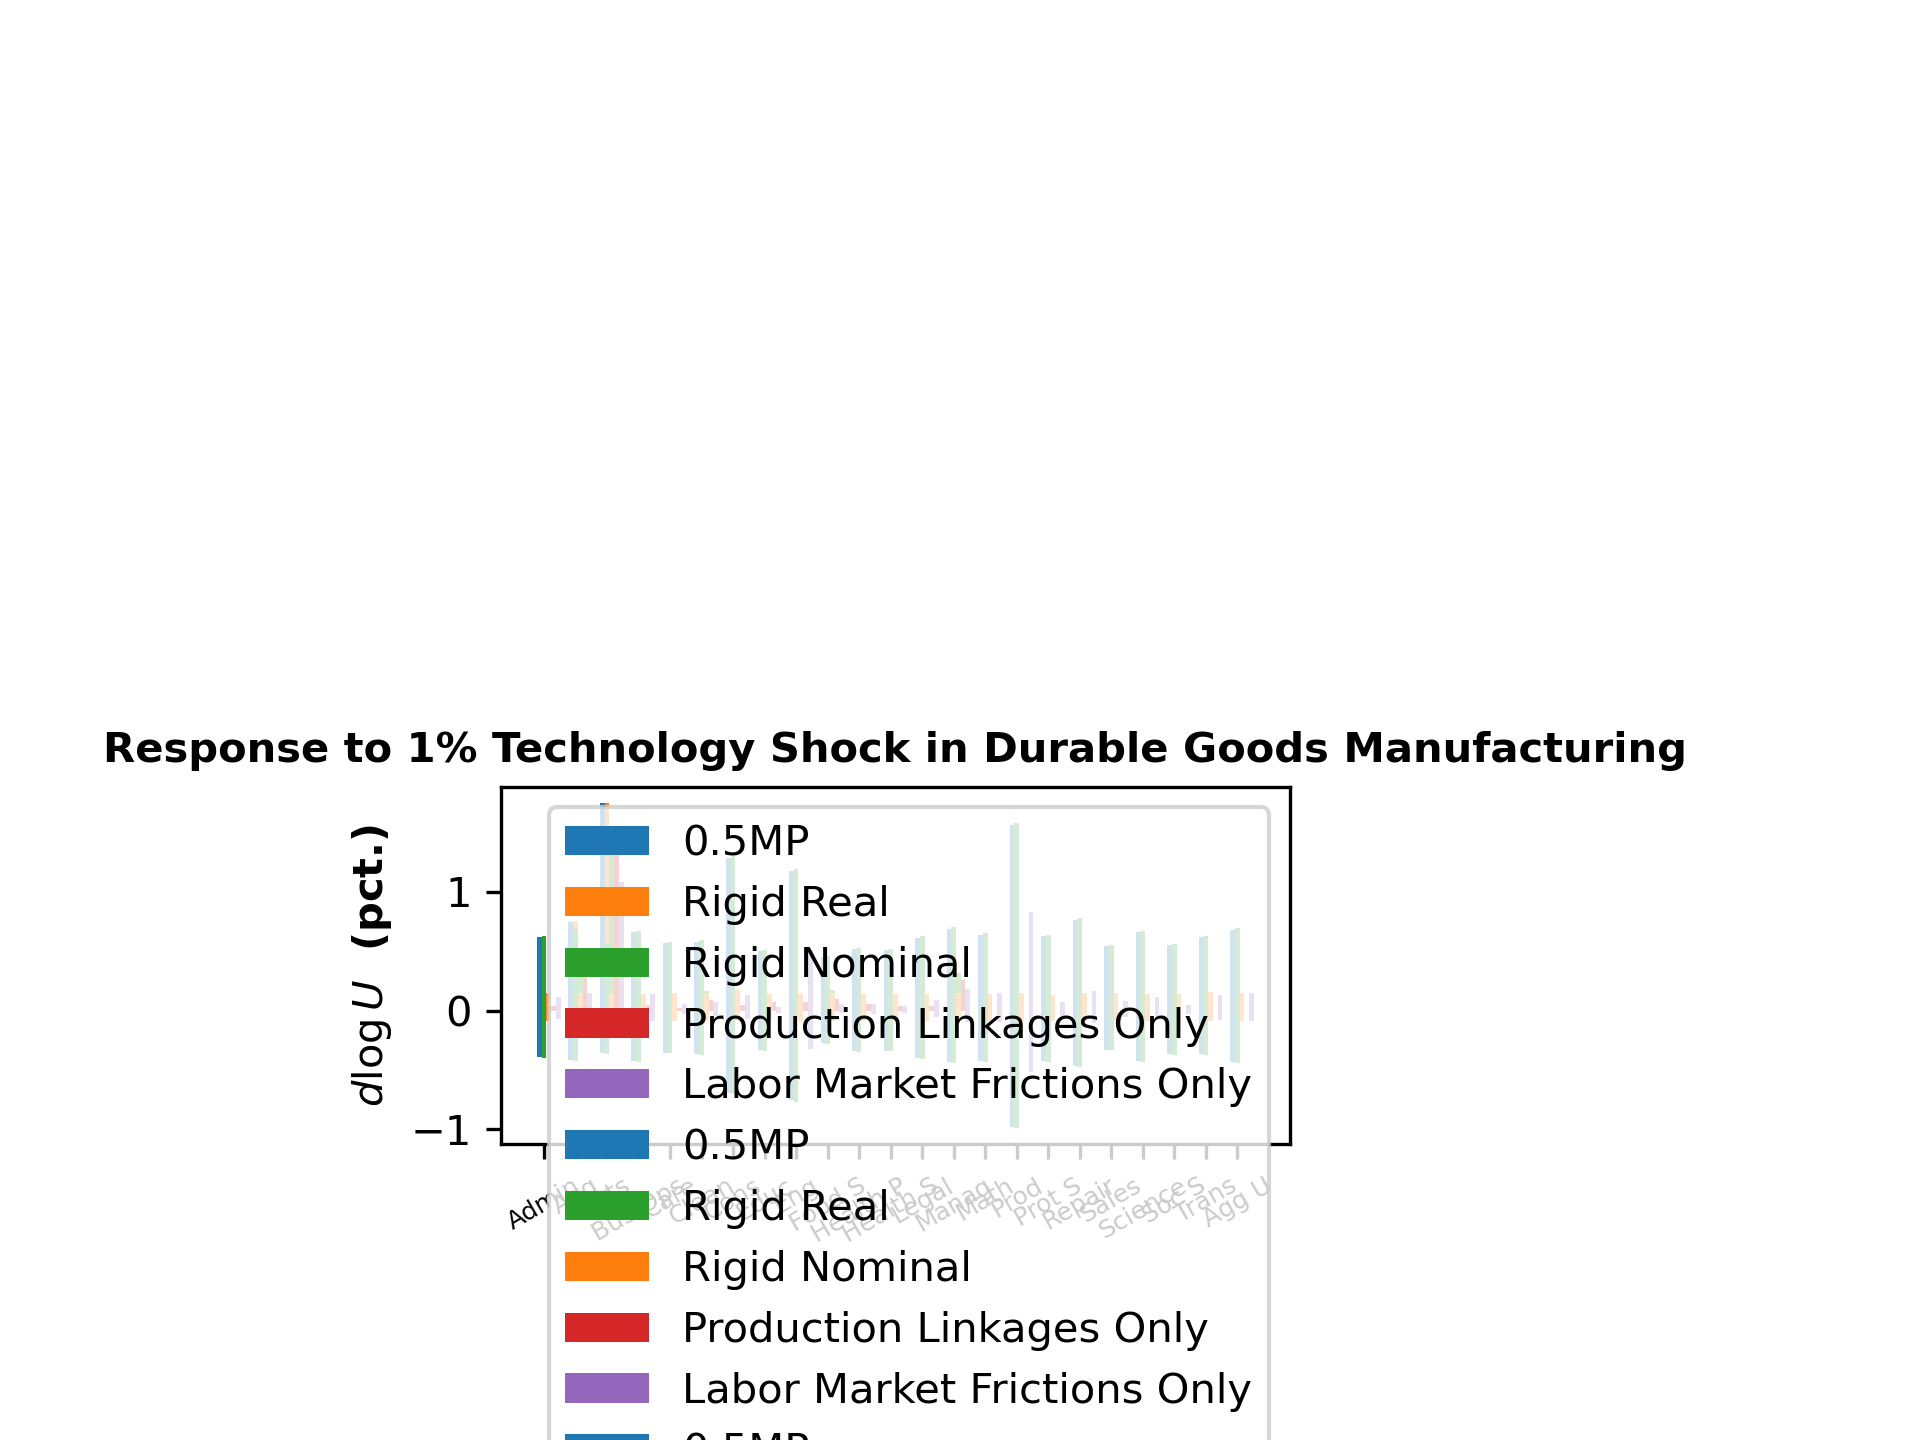
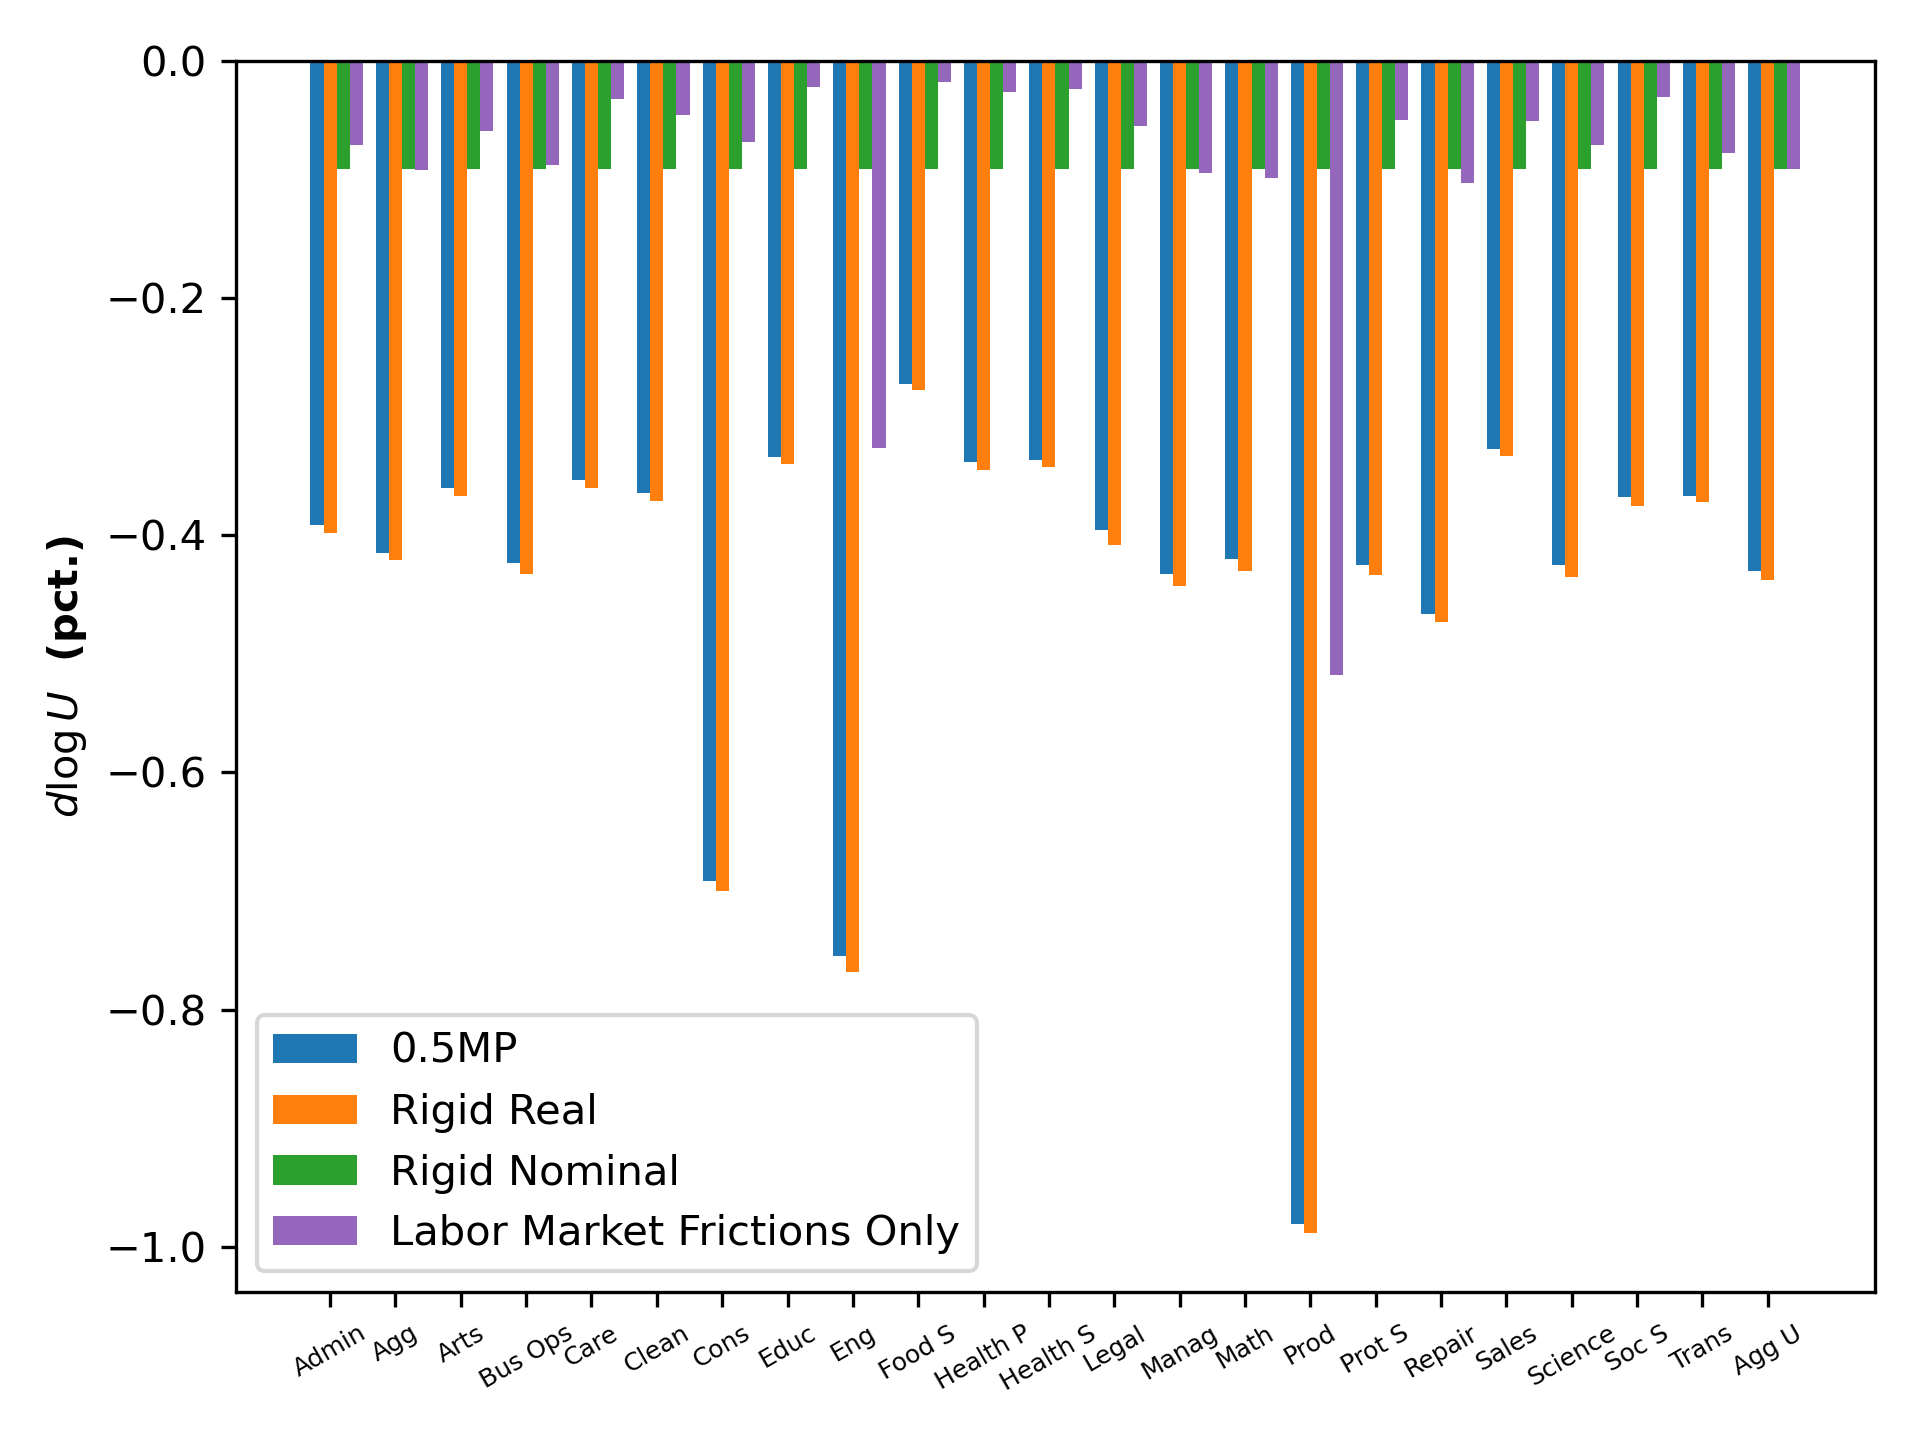
minor edits

diff --git a/code/calibration_figures.py b/code/calibration_figures.py
@@ -176,6 +176,8 @@ occU_vec[:-1,i] = dlog_U.flatten()
 occU_vec[-1, i] = multi_occupation_network.AggUnemploymentFunc(dlog_U, U)
 occT_vec[-1, i] = multi_occupation_network.AggThetaFunc(dlog_theta, dlog_U, U, V)
 print(sectorY_vec[:, i])
+print(occU_vec[:, i])
+print(occT_vec[:, i])
 
 #### Creating Figures ####
 #fig1
@@ -185,26 +187,25 @@ xlab = ''
 ylab = '$\ d\log y$ (pct.)'
 save_path = f'../output/figures/calib3/A{A_spec}/{sec_to_shock}_AshockY.png'
 labels = WageAssumption
-bar_plot(100*sectorY_vec, sector_names, title, xlab, ylab, labels, #colors=['tab:blue','tab:orange','tab:green', 'tab:red', 'tab:purple'], 
-         save_path=save_path, rotation=30, fontsize=10, barWidth = 0.15, dpi=300)
-
+bar_plot(100*sectorY_vec, sector_names, title, xlab, ylab, labels, colors=['tab:blue','tab:orange','tab:green', 'tab:red', 'tab:purple'], 
+         save_path=save_path, rotation=30, fontsize=10, barWidth=0.15, dpi=300)
 #fig2
 occupation_names1 =  occupation_names + ['Agg $\\theta$']
 xlab = ''
 ylab = '$d \log \\theta$  (pct.)'
 save_path = f'../output/figures/calib3/A{A_spec}/{sec_to_shock}_AshockT.png'
-labels = ['0.5MP', "Rigid Real", "Rigid Nominal",'Production Linkages Only', 'Labor Market Frictions Only']
-bar_plot(100*occT_vec[:,:], occupation_names1, title, xlab, ylab, labels, colors=['tab:blue','tab:green','tab:orange', 'tab:red', 'tab:purple'], 
-         save_path=save_path, rotation=30, fontsize=10, barWidth = 0.15, dpi=300)
-
+labels = ['0.5MP', "Rigid Real", "Rigid Nominal", 'Labor Market Frictions Only']
+bar_plot(100*occT_vec[:, [0, 1, 2, 4]], occupation_names1, title, xlab, ylab, labels, colors=['tab:blue','tab:orange','tab:green', 'tab:purple'], 
+         save_path=save_path, rotation=30, fontsize=10, barWidth=0.2, dpi=300)
+print(occT_vec[:, [0, 1, 2, 4]])
 # fig3
 occupation_names1 = occupation_names + ['Agg U']
 xlab = ''
 ylab = '$d \log U$  (pct.)'
 save_path = f'../output/figures/calib3/A{A_spec}/{sec_to_shock}_AshockU.png'
-labels = ['0.5MP', "Rigid Real", "Rigid Nominal",'Production Linkages Only', 'Labor Market Frictions Only']
-bar_plot(100*occU_vec[:,:], occupation_names1, title, xlab, ylab, labels, colors=['tab:blue','tab:green','tab:orange', 'tab:red', 'tab:purple'], 
-         save_path=save_path, rotation=30, fontsize=10, barWidth = 0.15, dpi=300)
+labels = ['0.5MP', "Rigid Real", "Rigid Nominal", 'Labor Market Frictions Only']
+bar_plot(100*occU_vec[:, [0, 1, 2, 4]], occupation_names1, title, xlab, ylab, labels, colors=['tab:blue','tab:orange','tab:green', 'tab:purple'], 
+         save_path=save_path, rotation=30, fontsize=10, barWidth=0.2, dpi=300)
 
 
 

diff --git a/code/functions/network_figures.py b/code/functions/network_figures.py
@@ -3,6 +3,8 @@ import matplotlib.pyplot as plt
 import pandas as pd
 
 def bar_plot(data, sector_names, title, xlab, ylab, labels, save_path, colors=None, rotation=30, fontsize=15, barWidth=0.25, dpi=300):
+    fig = plt.subplots(dpi=dpi)
+
     #creating arrays
     br = np.zeros((len(sector_names), data.shape[1]))
 
@@ -12,7 +14,7 @@ def bar_plot(data, sector_names, title, xlab, ylab, labels, save_path, colors=No
         plt.bar(br[:,0], data[:,0], width=barWidth, label=labels[0]) 
     else:  
         plt.bar(br[:,0], data[:,0], width=barWidth,
-               color=colors[0], label=labels[0])
+                color=colors[0], label=labels[0])
     
     #looping through other networks
     for i in range(1, data.shape[1]):
@@ -25,7 +27,6 @@ def bar_plot(data, sector_names, title, xlab, ylab, labels, save_path, colors=No
     plt.xticks([r + barWidth for r in range(len(sector_names))],
                 sector_names, rotation=rotation, fontsize=6)
 
-    plt.title(title, fontweight='bold', fontsize=fontsize)
     plt.xlabel(xlab, fontweight='bold', fontsize=fontsize)
     plt.ylabel(ylab, fontweight='bold', fontsize=fontsize)
 
